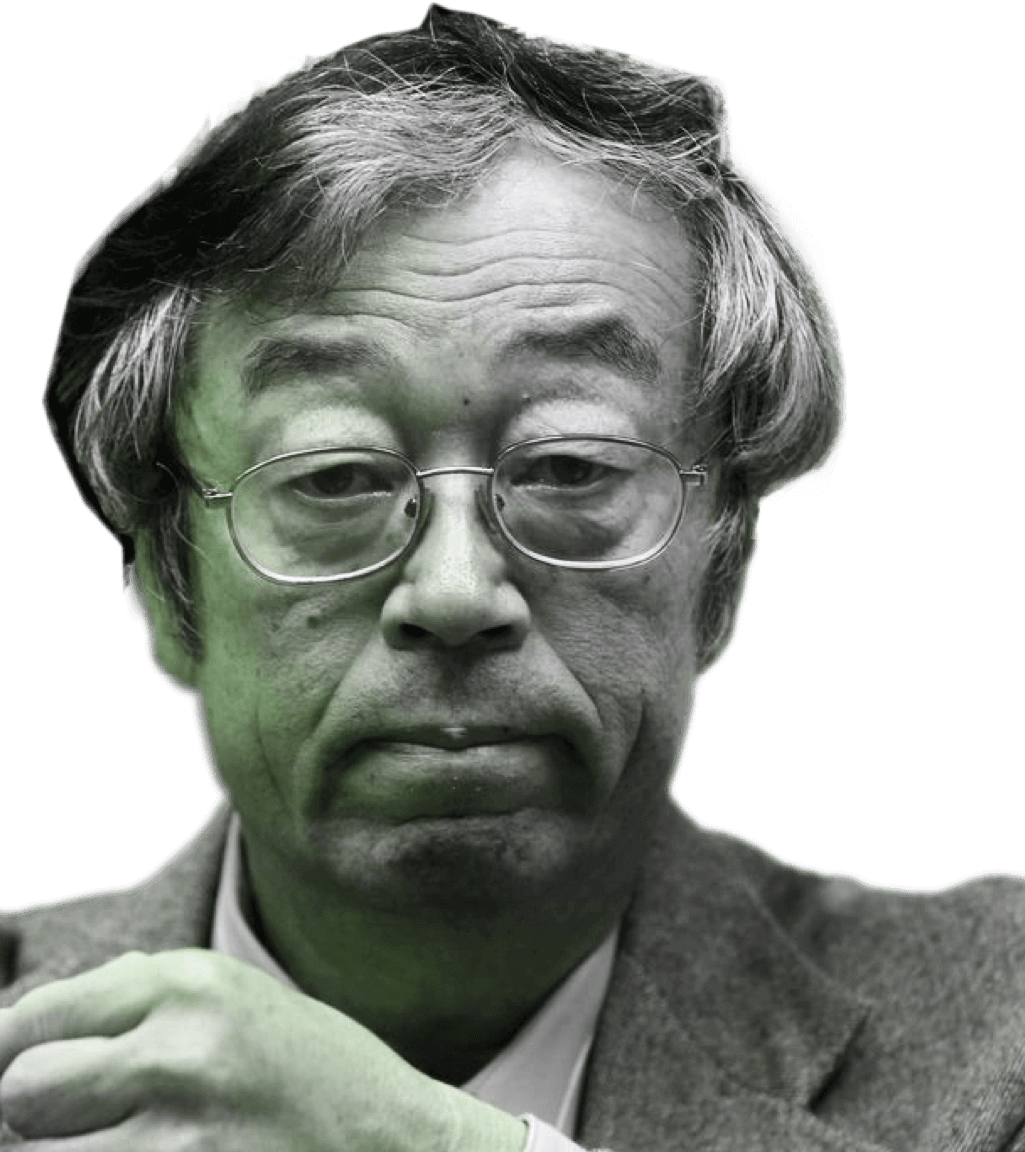
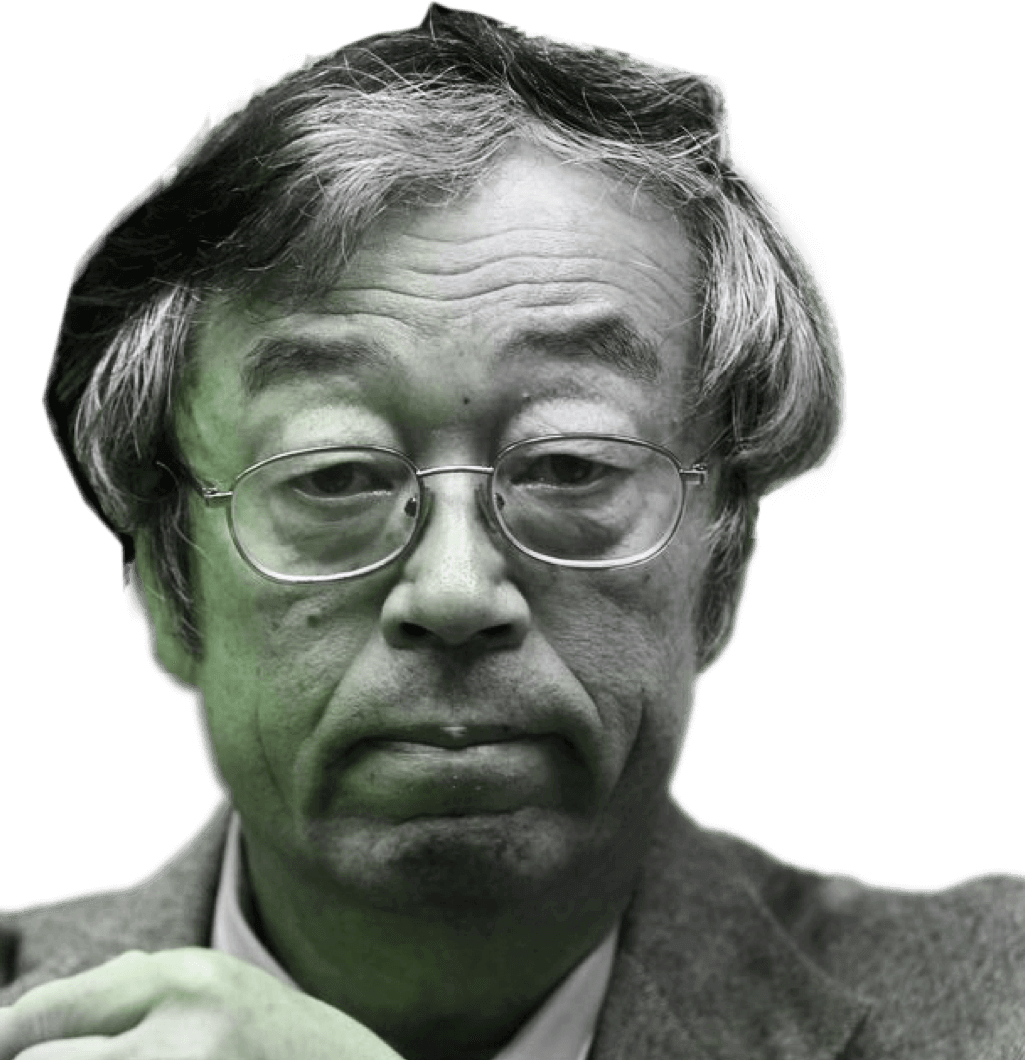
fix default image

diff --git a/src/helpers/utils.ts b/src/helpers/utils.ts
@@ -77,13 +77,6 @@ export const detectFace = async (stage: any, stageSize: { width: number; height:
     }
   }
 
-  console.log({
-    coordinates: {
-      x: stageSize.width / SCALE_FACTOR,
-      y: stageSize.height / SCALE_FACTOR,
-    },
-  })
-
   return {
     coordinates: {
       x: stageSize.width / SCALE_FACTOR,

diff --git a/src/containers/Sandbox/index.tsx b/src/containers/Sandbox/index.tsx
@@ -76,7 +76,7 @@ const Sandbox: React.FC<Props> = ({ file, stageRef }: Props) => {
   }, [file, onDetect])
 
   const defaultX = 220
-  const defaultY = 210
+  const defaultY = 230
 
   useEffect(() => {
     const resize = () => {

diff --git a/src/core/GlobalStyles.tsx b/src/core/GlobalStyles.tsx
@@ -47,7 +47,6 @@ export const GlobalStyles = createGlobalStyle`
     overscroll-behavior: none;
     -moz-osx-font-smoothing: grayscale;
     -webkit-font-smoothing: antialiased;
-
   }
 
   h1, h2, h3, h4, h5 {

diff --git a/src/containers/Playground/styled.tsx b/src/containers/Playground/styled.tsx
@@ -11,9 +11,6 @@ export const Wrapper = styled.div`
   @media all and (max-width: 767px) {
     padding: 24px 20px 16px;
   }
-
-  @media all and (max-width: 767px) {
-  }
 `
 
 export const Outer = styled.div`

diff --git a/src/containers/Sandbox/styled.tsx b/src/containers/Sandbox/styled.tsx
@@ -36,6 +36,7 @@ export const Wrapper = styled.div<WrapperProps>`
     height: 100%;
     backdrop-filter: blur(18px);
     border-radius: ${rem(24)};
+    transform: rotate3d(0, 0, 0);
   }
 
   .stage {
